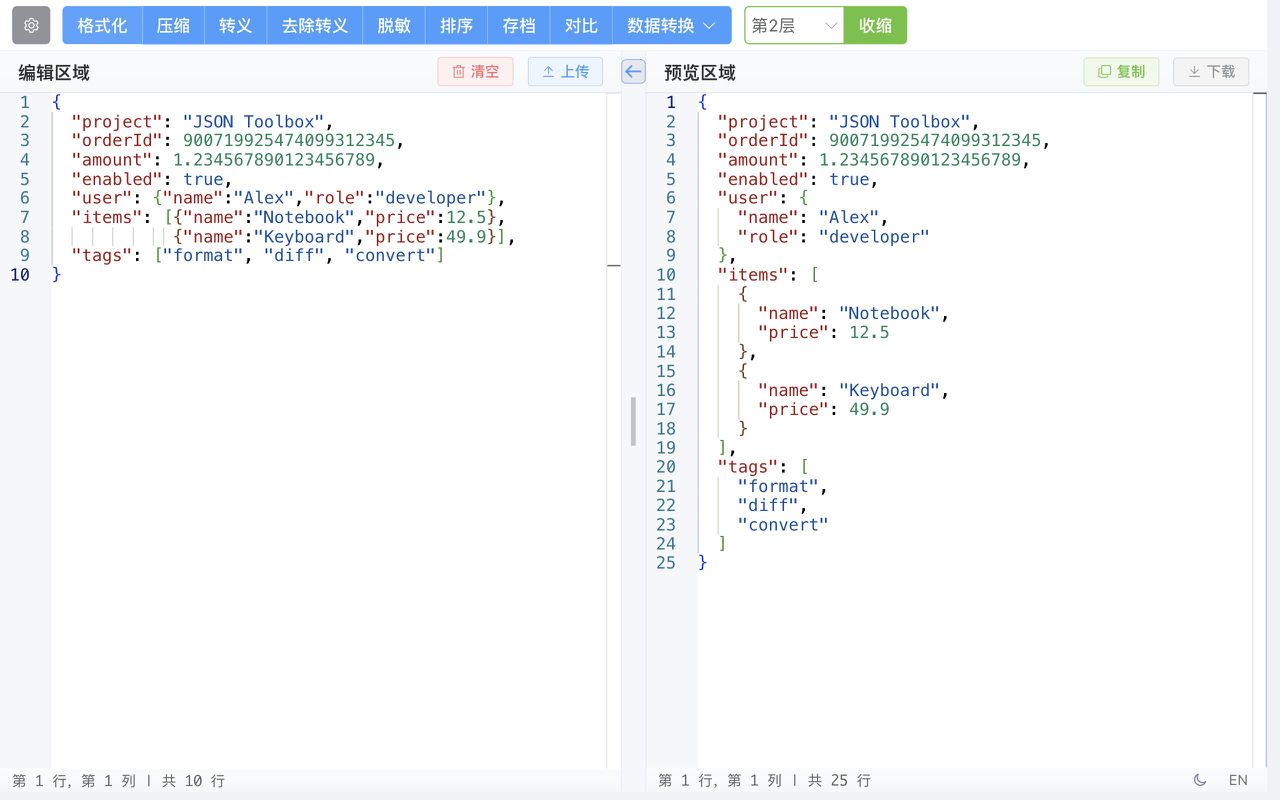
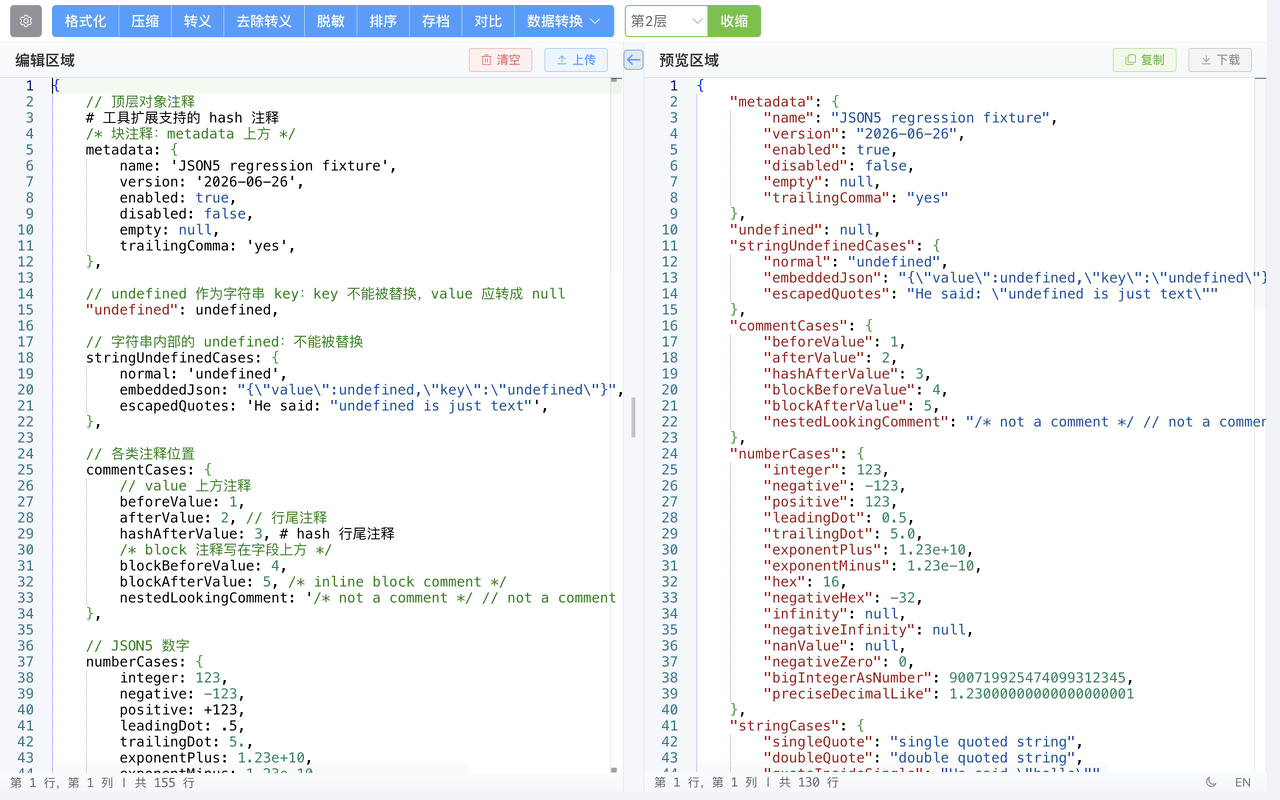
docs: refresh five store screenshots with built-in and representative examples

diff --git a/store/商店发布资料.md b/store/商店发布资料.md
@@ -19,7 +19,7 @@
 
 1. 打开已被拒审的「JSON 工具箱」项目，进入商店详情，选择中文（中国）/ Chinese (China)。
 2. 将“详细说明”完整替换为下方新版文案。也可直接复制 `商店详细说明.txt` 的全部内容；不用复制本指南中的拒审记录。
-3. 核对官方网址和首页网址已按下表填写。本次只调整商店后台的详细说明和网站链接，不修改运行代码、Manifest 或安装包，仍使用已上传的 1.0.0 包。这些是在商店后台填写的资料，不在 ZIP 内；仅这些字段的修改无需增加版本号或上传新 ZIP。
+3. 核对官方网址和首页网址已按下表填写，并用图片表中的五张 PNG 替换商店屏幕截图。本次调整商店后台的详细说明、网站链接和截图，不修改运行代码、Manifest 或安装包，仍使用已上传的 1.0.0 包。这些是在商店后台填写的资料，不在 ZIP 内；仅这些字段的修改无需增加版本号或上传新 ZIP。
 4. 保存商店资料，再从同一项目提交新的审核草稿。无需新建商店项目。
 
 新版说明围绕已实现的功能解释实际用途，去掉了通知点名的格式名称列表；格式转换以使用场景描述，代码中的转换功能保留。本地资料更新不等于后台已经保存或重新提交，也不表示后续审核一定通过。
@@ -121,15 +121,24 @@ JSON 工具箱，把常用的数据处理工具装进浏览器。
 
 ## 图片上传对应关系
 
+截图更新：2026-10-08。建议按以下五张截图的顺序上传，替换此前的两张截图。
+
 | 文件 | 上传到哪里 |
 | --- | --- |
 | `assets/icon-128.png` | 商店图标，128×128 PNG（安装包已有同一图标） |
-| `assets/screenshot-01-format.png` | 屏幕截图：格式化与数值字面量保留，1280×800，24 位 RGB PNG |
-| `assets/screenshot-02-diff.png` | 屏幕截图：JSON 差异对比，1280×800，24 位 RGB PNG |
+| `assets/screenshot-01-format.png` | 屏幕截图 1：原项目内置示例的格式化，保留长数字字面量 |
+| `assets/screenshot-02-diff.png` | 屏幕截图 2：虚构订单的五处差异，包含字段增删、数值与数组修改 |
+| `assets/screenshot-03-settings.png` | 屏幕截图 3：设置弹窗，展开格式化设置 |
+| `assets/screenshot-04-context-menu.png` | 屏幕截图 4：编辑器右键菜单，展示数组与文本行处理 |
+| `assets/screenshot-05-array-dedupe.png` | 屏幕截图 5：深色主题下的对象数组去重结果，8 项变为 5 项 |
 | `assets/promo-440x280.jpg` | 小型宣传图，440×280 |
 | `assets/promo-1400x560.jpg` | 顶部宣传图块，1400×560 |
 
-截图使用生产构建的真实界面和虚构示例数据，不包含个人文件或账户信息。本次重新以高清尺寸渲染界面，截图采用 14px 编辑器字号与放大显示；新采集的 2560×1600 JPEG 原图保存为 `assets/screenshot-01-format-hd.jpg`、`assets/screenshot-02-diff-hd.jpg`，再缩小导出为无透明层的 1280×800 PNG。商店上传请用表中的 PNG 版本替换此前 JPEG 截图。高清原图供本地查看与保存；商店截图尺寸仍按官方的 1280×800 或 640×400 要求准备。宣传图的可编辑源文件是 `assets/promo-440x280.html` 和 `assets/promo-1400x560.html`，仅用于制作图片，不随插件包发布。1400×560 顶部宣传图已准备好，可上传到后台同名字段；宣传视频可选。
+五张上传截图均为 1280×800、24 位 RGB PNG，无透明层。使用生产构建的真实界面和实际操作结果，不含个人文件或账户信息。格式化截图逐字使用代码中的完整内置 JSON 示例；Diff 和数组去重使用虚构示例。示例文件与重拍步骤保存在 `examples/README.md`，不会随插件包发布。
+
+截图采用 14px 编辑器字号与两倍尺寸显示，对应的 2560×1600 JPEG 采集原图保存为同名 `assets/screenshot-*-hd.jpg`，再缩小导出上述 PNG。商店上传请用 PNG；旧的 01、02 JPEG 也已同步替换成此次内容。高清原图供本地查看与保存，商店截图尺寸仍按官方的 1280×800 或 640×400 要求准备。仅更新截图与发布文档无需重新构建插件或增加版本号；后台图片需手动替换并保存。
+
+宣传图的可编辑源文件是 `assets/promo-440x280.html` 和 `assets/promo-1400x560.html`，仅用于制作图片，不随插件包发布。1400×560 顶部宣传图可上传到后台同名字段；宣传视频可选。
 
 ## 如何确认安装包是最新的
 

diff --git a/store/examples/README.md b/store/examples/README.md
@@ -1,0 +1,27 @@
+# JSON 工具箱：商店截图
+
+采集日期：2026-10-08。五张图片均来自插件 1.0.0 生产构建的实际操作界面，按下列顺序上传。
+
+| 顺序 | 上传文件 | 展示内容 |
+| --- | --- | --- |
+| 1 | screenshot-01-format.png | 原项目完整内置示例的格式化；输入注释、单引号、特殊值与输出长数字字面量 |
+| 2 | screenshot-02-diff.png | 虚构订单变更；状态修改、商品数量和数组变化、折扣新增、旧字段删除，共五处差异 |
+| 3 | screenshot-03-settings.png | 设置弹窗；展开格式化设置，展示自动解码与数组换行，其余设置分组完整可见 |
+| 4 | screenshot-04-context-menu.png | 编辑区域右键菜单；数组排序、去重、按字段取值及文本行处理，右侧显示实际去重结果 |
+| 5 | screenshot-05-array-dedupe.png | 深色主题；8 个对象去重为 5 个，左侧保留原数组，右侧显示结果 |
+
+上传文件统一为 1280×800、24 位 RGB PNG，无 alpha 透明层。对应的 `*-hd.jpg` 是 2560×1600 高清采集原图，供查看与保存，不用于商店截图字段。旧的 01、02 JPEG 同步替换成这次内容，但推荐上传 PNG。
+
+## 示例与重拍步骤
+
+编辑器字号设为 14，缩进设为 4 个空格；使用生产构建中的原始编辑器、设置和菜单。仅本地截图预览页面放大显示，未修改插件运行代码或 ZIP。采用两倍尺寸采集，再缩小导出商店要求的尺寸。
+
+1. 格式化：`builtin-format-input.json5` 逐字取自 `src/components/utils/firstUseSampleJson.ts` 的 `FIRST_USE_SAMPLE_JSON_ZH`，未删减或改写示例内容。粘贴到左侧，关闭 JSON 语法诊断并点击“格式化”，滚回顶部。该示例含 JSON5 与工具扩展语法，关闭诊断是截图时的实际设置；完整输入保留 155 行，输出 130 行。
+2. Diff：进入“对比”，左侧载入 `diff-before.json`，右侧载入 `diff-after.json`，两侧滚回顶部。示例中的客户、订单和物流编号均为虚构演示数据；同一长订单号在两侧保持一致。
+3. 设置：返回普通编辑器，打开齿轮，展开“格式化设置”，保留其他设置分组标题与弹窗关闭按钮。
+4. 右键菜单：左侧载入 `array-dedupe-input.json`，右键执行“数组去重”，再打开右键菜单截图。结果与 `array-dedupe-result.json` 一致，保留各对象第一次出现的顺序。
+5. 深色主题：关闭右键菜单，点击状态栏主题按钮，截图展示同一组输入和去重结果。
+
+示例仅用于重拍与验证，不随扩展安装包发布。仅更新截图和发布文档无需重新构建插件。后台上传这五张 PNG 后，保存商店资料即可；本地文件更新不会自动替换商店后台的图片。
+
+参考：[Chrome 商店图片要求](https://developer.chrome.com/docs/webstore/images)。
